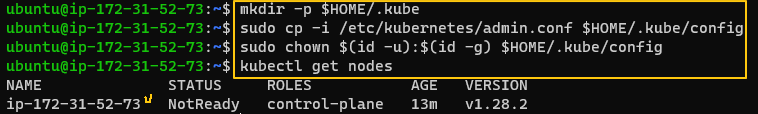
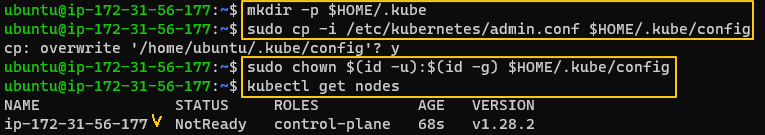
231016 covered

diff --git a/practice/container/acg_k8s_quick_start/02/note.md b/practice/container/acg_k8s_quick_start/02/note.md
@@ -53,7 +53,7 @@
   add-apt-repository "deb [arch=amd64] https://download.docker.com/linux/ubuntu $(lsb_release -cs) stable"
   ```
   ```
-  apt-get install docker-ce
+  apt-get install -y docker-ce
   ```
   * Check the docker status
     ```
@@ -123,9 +123,15 @@
   systemctl restart containerd
   ```
   * Check the file.   
+    ```
+    cat /etc/containerd/config.toml
+    ```
     ![](images/005.png)
 
-* Initialize the cluster using the IP range for Flannel.
+* Exit from the root user and initialize the cluster using the IP range for Flannel.
+  ```
+  exit
+  ```
   ```
   kubeadm init --pod-network-cidr=10.244.0.0/16
   ```
@@ -133,13 +139,10 @@
     ![](images/007.png)
   * If something goes wrong, reset with the following command.
     ```
-    kubeadmin reset
+    kubeadm reset
     ```
 
-* **Exit from root user** and run the commands in (1).
-  ```
-  exit
-  ```
+* Run the commands in (1).
   ```
   mkdir -p $HOME/.kube
   ```
@@ -149,13 +152,24 @@
   ```
   sudo chown $(id -u):$(id -g) $HOME/.kube/config
   ```
-  * Check nodes using kubectl
+  * Check nodes.
     ```
     kubectl get nodes
     ```
     ![](images/008.png)
+    * Why not ready?)
+      * We have not applied the network overlay.
 
-* Deploy a pod network to the cluster : Flannel
+* Apply the network overlay using Flannel
+  ```
+  kubectl apply -f https://github.com/flannel-io/flannel/releases/latest/download/kube-flannel.yml
+  ```
+  ![](images/009.png)
+  * Check nodes once again.
+    ```
+    kubectl get nodes
+    ```
+    ![](images/010.png)
 
 <br>
 
